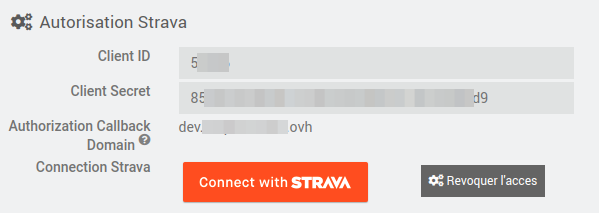
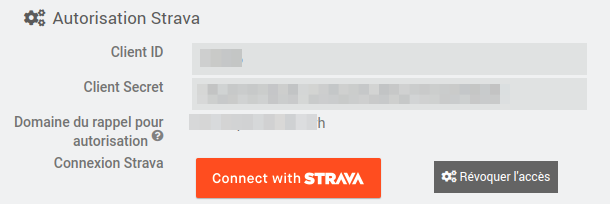
fix documentation after users' feedback

diff --git a/desktop/php/strava.php b/desktop/php/strava.php
@@ -121,7 +121,7 @@ $eqLogics = eqLogic::byType($plugin->getId());
                                 </div>
                             </div>
                             <div class="form-group">
-                                <label class="col-sm-3 control-label help" data-help="{{Domaine à renseigner sur la page Strava 'My API Application'}}">{{Authorization Callback Domain}}</label>
+                                <label class="col-sm-3 control-label help" data-help="{{Domaine à renseigner sur la page Strava 'My API Application'}}">{{Domaine du rappel pour autorisation}}</label>
                                 <div class="col-sm-6">
                                     <span>
                                         <?php 
@@ -221,12 +221,10 @@ $eqLogics = eqLogic::byType($plugin->getId());
                                     'Yoga' => '{{Yoga}}'
                                 ];
                                 foreach ($sports as $key => $value) {
-                                    //echo '<div id ="' . $key . '" class="form-group">';
                                     echo '   <label class="control-label col-sm-3">' . $value . '</label>';
 					                echo '   <div class="col-sm-1">';
 					                echo '      <input type="checkbox" class="eqLogicAttr" data-l1key="configuration" data-l2key="' . $key . '"/>';
 					                echo '   </div>';
-					                //echo '</div>';
                                 } 
                             ?>
                             </div>

diff --git a/docs/fr_FR/index.md b/docs/fr_FR/index.md
@@ -4,7 +4,7 @@
 >Le nom et les logos Strava sont tous protégés par les lois applicables en matière de marques, de droits d'auteurs et de propriété intellectuelle.
 Ce plugin n'est pas une application officielle Strava. Il est compatible avec Strava au travers le l'API Strava (see [https://developers.strava.com/](https://developers.strava.com/) )
 
-Le plugin Strava de Jeedom a été développé de manière à être compatible avec Strava.
+Le plugin Strava de Jeedom à été développé de manière à être compatible avec Strava.
 ![graph1](../assets/images/api_logo_cptblWith_strava_horiz_light.png)
 
 
@@ -12,8 +12,8 @@ Le plugin Strava de Jeedom a été développé de manière à être compatible a
 
 # Description
 
-Ce plugin permet d'associer Jeedom à Strava, et ainsi récupérer les activitées de l'athlète.
-L'objectif n'est pas de dupliquer les informations contenues dans Strava, mais plutôt de récupérer les informations pertinentes des activitées, et de les consolider pour avoir une vue personnalisée.
+Ce plugin permet d'associer Jeedom à Strava, et ainsi récupérer les activités de l'athlète.
+L'objectif n'est pas de dupliquer les informations contenues dans Strava, mais plutôt de récupérer les informations pertinentes des activités, et de les consolider pour avoir une vue personnalisée.
 
 >Par exemple, Strava propose par défaut un résumé hebdomadaire et annuelle pour trois sports : natation, vélo, et course à pied. Avec le plugin, il est possible d'avoir ce même résumé pour 37 sports différents !
 
@@ -21,9 +21,9 @@ L'objectif n'est pas de dupliquer les informations contenues dans Strava, mais p
 
 Le plugin se base sur l'API Strava, qui propose 2 types de requêtes.
 - Les requêtes dites 'pull', ou le plugin va chercher les informations dans Strava. 
-- les requêtes dites 'push' quand Strava envoie une notification au plugin pour l'informer d'un changement dans Strava. C'est la cas par exemple quand une nouvelle activitée est synchronisée entre votre montre et Strava, après une belle séance de vélo !
+- les requêtes dites 'push' quand Strava envoie une notification au plugin pour l'informer d'un changement dans Strava. C'est la cas par exemple quand une nouvelle activité est synchronisée entre votre montre et Strava, après une belle séance de vélo !
 
-Grâce a ce plugin, vous serez en temps réel au courant de votre bilan sportif, avec pour chacune des activitées selectionnées:
+Grâce à ce plugin, vous serez en temps réel au courant de votre bilan sportif, avec pour chacune des activités selectionnées:
 - le nombre d'occurence dans la semaine et dans l'année
 - le cumul des kilomètres dans la semaine et dans l'année
 - le cumul de dénivellé positif dans la semaine et dans l'année
@@ -35,7 +35,7 @@ Strava propose également un service d'analyse de vos performances, qui prends b
 # Installation
 
 Afin d'utiliser le plugin, vous devez le télécharger, l'installer et l'activer comme tout plugin Jeedom. 
-Il n'y a pas de configuration particulière à faire sur le plugin.
+Il n'y à pas de configuration particulière à faire sur le plugin.
 
 # Configuration de l'équipement, ou plutôt de l'ATHLETE !
 
@@ -44,12 +44,12 @@ Après avoir créé un nouvel athlète, vous devez impérativement remplir les d
 
 La configuration est un peu complexe, en raison de la mise en place d'autorisations négociées entre le plugin et Strava. Maintenant, vous avez l'habitude, il s'agit d'une autorisation oauth2 que l'on retrouve dans de nombreux plugins !
 
-Il y a trois sections distinctes afin de configurer le plugin:
+Il y à trois sections distinctes afin de configurer le plugin:
 - Générale
 - Autorisation Strava
 - Sélection des Sports
 
-## General
+## Général
 
 La section équipement sert à configurer les paramètres habituels de Jeedom, 
 
@@ -57,67 +57,73 @@ La section équipement sert à configurer les paramètres habituels de Jeedom,
 
 ## Autorisation Strava
 
-Cette étape est indispensable, elle permet de lier le plugin Jeedom a Strava, afin de récupérer les informations contenues dans Strava. Plusieurs étapes sont nécessaire pour connecter le plugin a Strava. Ces étapes permettent d'authentifier le plugin à Strava, et à lui fournir les autorisations d'accès nécessaire. 
+Cette étape est indispensable, elle permet de lier le plugin Jeedom à Strava, afin de récupérer les informations contenues dans Strava. Plusieurs étapes sont nécessaire pour connecter le plugin à Strava. Ces étapes permettent d'authentifier le plugin à Strava, et à lui fournir les autorisations d'accès nécessaire. 
 
 ### Configuration de Strava
 
-#### 1/ Sur la page de Strava, aller dans "Profile -> Settings"
+#### Création d'une application Strava
 
-#### 2/ Cliquer sur 'My API Application' sur la gauche de la fenêtre.
+Rendez-vous sur le site [https://developers.strava.com/](https://developers.strava.com/) afin de créer une application. Cliquez sur le bouton 'Create and Manage your App'
+
+![stravaapp](../assets/images/stravaapp.png)
+
+#### Sur la page de Strava, allez dans "Profile -> Settings"
+
+
+#### Cliquez sur 'Mon application API' sur la gauche de la fenêtre.
 
 ![myapiapplication](../assets/images/myapiapplication.png)
 
-#### 3/ Récupérer les 2 valeurs : **Client ID **et **Client Secret**, copier/coller ces valeurs 
+#### Récupérez les 2 valeurs : **Client ID **et **Client Secret**, copiez/collez ces valeurs 
 dans un fichier, nous en aurons besoin pour configurer l'athlète dans le plugin Jeedom.
 
 ![clientid](../assets/images/clientid.png)
 
-#### 4/ Descendez dans la fenêtre, jusqu'à la partie 'Update Application'
+#### Descendez dans la fenêtre, jusqu'à la partie 'Mettre à jour une application'
 
 ![updateapplication](../assets/images/updateapplication.png)
 
 Ceux sont les informations qui apparaîtront quand Strava vous demandera d'accorder les permissions au plugin Jeedom.
-- **Application Name**: Choisissez un nom d'application "original", de façon a ce qu'il soit unique.
-Par exemple, utilisez votre nom de domaine: (xxxx.ovh -> xxxx), et surtout éviter jeedom.
+- **Nom de l'application**: Choisissez un nom d'application "original", de façon à ce qu'il soit unique.
+Par exemple, utilisez votre nom de domaine: (xxxx.ovh -> xxxx), et surtout évitez jeedom.
 Il est important que le nom soit unique, car le nombre de requêtes quotidiennes à Strava est limite par application à 100 requêtes toutes les 15 minutes, et 1000 requêtes par jour.
 
-- **Category**: J'ai mis **Visualizer**
+- **Categorie**: J'ai mis **Outil de visualisation**
 
 - **Website**: C'est le web site permettant d'accéder à votre Jeedom, donc par exemple jeedom.xxxx.ovh
 
-- **Authorization Callback Domain**: Recopier dans cette zone, les informations 'Authorization Callback Domain' de l'athlète que vous êtes entrain de créer (voir ci-dessous)
+- **Domaine du rappel pour autorisation**: Recopiez dans cette zone, les informations 'Domaine du rappel pour autorisation' de l'athlète que vous êtes entrain de créer (voir ci-dessous)
 
 ## Autorisation dans le plugin Strava de Jeedom
 
 ![autorisation](../assets/images/autorisation.png)
 
-* copier dans **Client ID **et **Client Secret** les informations obtenues sur le site de Strava (voir ci-dessus)
-* copier l '**Authorization Domain Callback**' depuis Jeedom vers Strava.
+* copiez dans **Client ID **et **Client Secret** les informations obtenues sur le site de Strava (voir ci-dessus)
+* copiez le '**Domaine du rappel pour autorisation**' depuis Jeedom vers Strava.
 
 >**IMPORTANT**
 >
-> Il est indispensable que le domaine que vous spécifiiez dans l'authorization Domain Callback' soit accessible depuis l'extérieur en https. Le nom utiliser par le plugin est le nom configurer dans Jeedom, dans la section réseau.
+> Il est indispensable que le domaine que vous spécifiiez dans la zone 'Domaine du rappel pour autorisation' soit accessible depuis l'extérieur en https. Le nom utiliser par le plugin est le nom configurer dans Jeedom, dans la section réseau.
 
-Pour résumer, voici les champs que vous devez configurer dans l'athlète et Strava.
 
-![configsummary](../assets/images/configsummary.png)
-
-#### 5/ Connect with Strava
+#### Connect with Strava
 
 Ouf, le moment est venu de connecter Jeedom et Strava grâce aux informations que vous venez de saisir. Cliquez sur le bouton orange **Connect with Strava**.
 
 ![connect](../assets/images/autorisation.png)
 
-Le plugin va se connecter à Strava, et vous allez être redirigé vers une page d'autorisation, qui ressemble a ca:
+Le plugin va se connecter à Strava, et vous allez être redirigé vers une page d'autorisation, qui similaire à celle-la:
+
+![callback](../assets/images/callback.png)
 
 Acceptez les autorisations demandées:
-- read: obligatoire
-- read_all: permet d'accéder aux informations privées.
-- profile:read_all: contient les informations de l'athlète
-- profile:write: pour mettre a jour le poids depuis Jeedom.
-- activity:read_all: permet d'accéder aux activitées publiques et privées de l'athlète.
+- Consulter les données de votre profil public: (obligatoire)
+- Consulter vos données privees hors activité, comme les segments et les itineraires.
+- Consulter l'integralité de votre profil Strava
+- Modifier certaines donnees sur votre profil: pour mettre à jour le poids depuis Jeedom.
+- Consulter les donnees de vos activités privees.
 
-Une fois l'autorisation 'accordee' a Jeedom d'acceder aux donnees Strava, vous devez avoir les deux indicateurs 'Connexion' et 'Webhook' passe d'un triangle danger à une prise connectée. 
+Une fois l'autorisation 'accordée' à Jeedom d'acceder aux donnees Strava, vous devez avoir les deux indicateurs 'Connexion' et 'Webhook' passe d'un triangle danger à une prise connectée. 
 
 Avant:
 
@@ -129,12 +135,15 @@ Après:
 
 Si vous en êtes la, **c'est gagné**.
 
+>Note:
+>Si, lorsque vous avez valider l'autorisation vous recevez un message 'Invalide state', il est possible que l'application Strava ne soit pas encore disponible. Il faut attendre une quinzaine de minutes entre la creation de l'application Strava, et le fait de pouvoir l'utiliser.
+
 ## Selection des sports
 
 Cochez les sports que vous voulez surveiller. Si vous faites d'autres sports qui sont présents dans Strava, ceux-ci seront tout simplement ignores par le plugin, et vous n'aurez donc pas de résumé. 
 
 > Note:
-> Il a été volontairement choisi de ne pas créer tous les sports car il y a huit commandes créees par sport (4 pour la semaine, 4 pour l'année), donc cela fait trop de commandes inutiles.
+> Il à été volontairement choisi de ne pas créer tous les sports car il y à huit commandes créees par sport (4 pour la semaine, 4 pour l'année), donc cela fait trop de commandes inutiles.
 
 ![sportsselection](../assets/images/37sports.png)
 
@@ -144,7 +153,7 @@ Cochez les sports que vous voulez surveiller. Si vous faites d'autres sports qui
 
 ## Importation de l'historique de l'année
 
-Cette étape est optionnelle. Elle permet cependant de récupérer toutes vos activitées depuis le début de l'année, et de créer les résumés annuels pour chaque sport sélectionné.
+Cette étape est optionnelle. Elle permet cependant de récupérer toutes vos activités depuis le début de l'année, et de créer les résumés annuels pour chaque sport sélectionné.
 
 ![razstatistics](../assets/images/razstatistics.png)
 
@@ -152,8 +161,8 @@ Pour cela, il vous suffit de cliquer sur le bouton 'Raz Statistiques'
 
 ## Bravo !
 
-Bravo, vous avez configurer le plugin Strava, il est maintenant lie a Strava, et va recevoir de manière automatique les nouvelles activitées enregistrées dans Strava. 
-Dans la section 'Statistiques', la zone 'Dernière mise a jour' vous indique la dernière fois que des informations ont été reçues par le plugin. S'il n'y a pas de mise à jour dans Strava, il est normal que cette date ne change pas. 
+Bravo, vous avez configurer le plugin Strava, il est maintenant lie à Strava, et va recevoir de manière automatique les nouvelles activités enregistrées dans Strava. 
+Dans la section 'Statistiques', la zone 'Dernière mise à jour' vous indique la dernière fois que des informations ont été reçues par le plugin. S'il n'y à pas de mise à jour dans Strava, il est normal que cette date ne change pas. 
 
 Cela veux peut-être dire qu'il est temps de faire un peu de sport, hein !
 
@@ -161,10 +170,10 @@ Cela veux peut-être dire qu'il est temps de faire un peu de sport, hein !
 
 # Limitations connues
 
-- Si une activitée est modifiée ou supprimée dans Strava, le plugin sera notifié, mais n'est pas en mesure de mettre a jour ses compteurs. En effet, le choix a été fait de ne pas sauvegarder en base de données de Jeedom les enregistrements Strava, et il est donc impossible au plugin de connaître l'événement concerné par cette notification. 
-- Il n'y a pas pour l'instant de gestion des équipements (chaussures, vélos, ...). C'est en projet, mais cela viendra un peu plus tard, après la stabilisation (beta) du plugin.
-- le widget est ***"moche"***, j'en suis bien conscient, mais les informations sont la. Libre a vous de créer un virtuel, ou un 'customTemplate' permettant d'avoir une visualisation plus jolie par sport, avec icône, des temps qui ne soient pas en secondes, et ....
-Il y a pas mal de personnes très douées dans la communauté pour se genre de tache, avec de la chance, elles sont aussi sportives et interessées par ce plugin.
+- Si une activité est modifiée ou supprimée dans Strava, le plugin sera notifié, mais n'est pas en mesure de mettre à jour ses compteurs. En effet, le choix à été fait de ne pas sauvegarder en base de données de Jeedom les enregistrements Strava, et il est donc impossible au plugin de connaître l'événement concerné par cette notification. 
+- Il n'y à pas pour l'instant de gestion des équipements (chaussures, vélos, ...). C'est en projet, mais cela viendra un peu plus tard, après la stabilisation (beta) du plugin.
+- le widget est ***"moche"***, j'en suis bien conscient, mais les informations sont la. Libre à vous de créer un virtuel, ou un 'customTemplate' permettant d'avoir une visualisation plus jolie par sport, avec icône, des temps qui ne soient pas en secondes, et ....
+Il y à pas mal de personnes très douées dans la communauté pour se genre de tache, avec de la chance, elles sont aussi sportives et interessées par ce plugin.
 
 # Désinstallation du plugin
 
